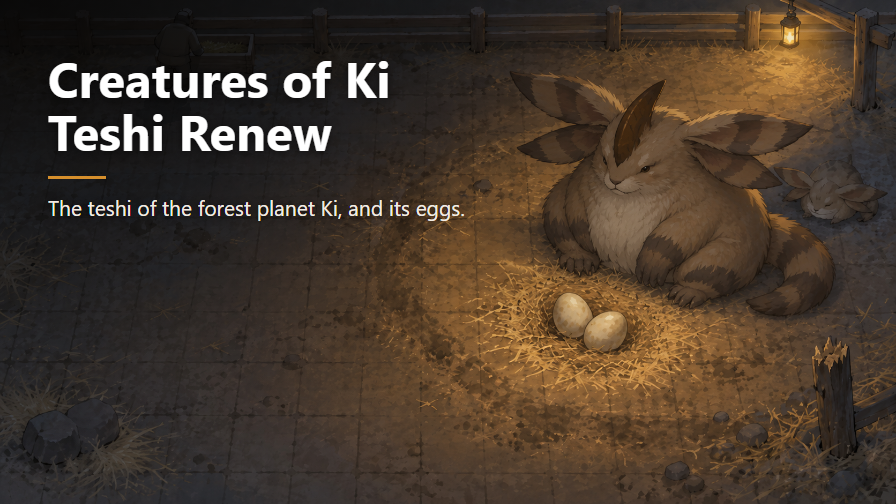
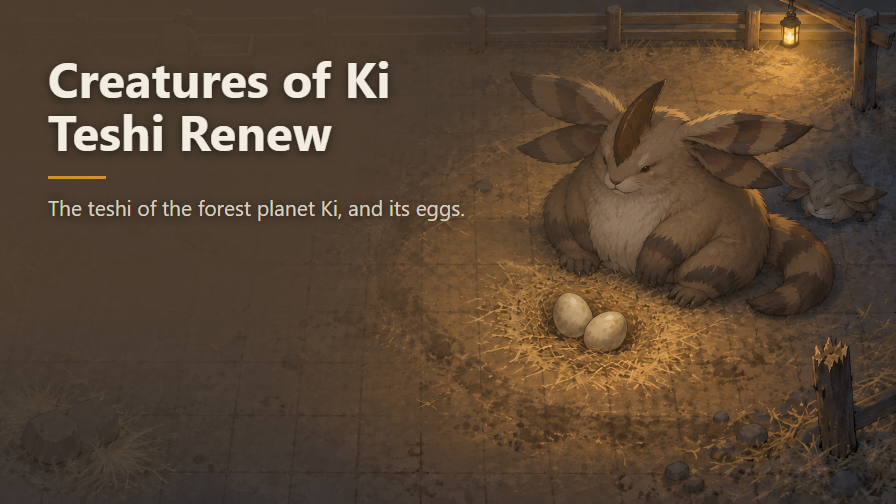
The veil takes a colour: the straw in shadow, not black
Under the 2026-09-12 rule the veil is a colour lifted out of the picture and the ink follows from
its luminance. This one is #503F2F, the straw lying in shadow under the animal's flank, sampled off
the full-resolution source and desaturated a fifth of the way to its own grey. Its luminance is
0.056, so the ink is the light pair and the drop shadows stay. The rule keeps its amber: the
exception is for a veil that is itself amber, and a shadowed brown is not.

The pale veil was built first, because that is what the rule's own example does, and it was
measured rather than argued about: #D4BB91 off the lit side of the eggs, dark ink, 4.87:1 at the
worst point. It passes and it washes the picture out. A pale veil has to hold its alpha across the
whole 430px summary, and an ellipse wide enough for that covers the frame, so the animal, the
lantern and the nest all come up milky. Four narrower ellipses were measured and every one fell
through the floor at the end of the summary: 3.5:1 at 700px, 2.8:1 at 620px, 1.0:1 at 560px. On a
night scene lit by a single lantern the veil has to be the dark one. What it must not be is the
same black as the other fifty-four, and at 20,20 this one reads #503D2C where the old one read
#0D0C0C.

Two mid-tones were dropped before either of those: the lamp pool on the straw and the dry straw at
the nest edge, #996B37 and #966A3A. Both sit within a hair of the 0.18 threshold, so they fail
[…]

diff --git a/Art/Preview-text.html b/Art/Preview-text.html
@@ -1,26 +1,58 @@
 <!doctype html>
 <meta charset="utf-8">
 <!--
-  The showcase banner: Preview-source.png with the title engraved over it. Render
-  at 896x504, the size Steam and the in-game mod list both want:
+  The showcase banner: Preview-source.png with the title engraved over it. Render at 896x504, the
+  size Steam and the in-game mod list both want:
 
     chrome --headless --disable-gpu --hide-scrollbars --force-device-scale-factor=1 \
            --window-size=896,504 \
            --screenshot=Mod/About/Preview.png Art/Preview-text.html
 
-  None of the numbers below are free. The first banner was built before the mod
-  took the Renew suffix, and its working notes were not kept, so these were
-  measured back off the image itself and refitted until a fresh render matched it:
-  title glyphs open at x=50 y=61, the two lines sit 53px apart, the rule is 58x3
-  at x=48 y=176, and the summary opens at y=200. The shade was fitted the same
-  way, by rendering candidates and comparing them to the old banner pixel by
-  pixel away from the text - an ellipse, not a circle, which is why the
-  bottom-left corner stays lighter than its distance from the corner suggests.
+  THE LAYOUT is measured, not chosen. The first banner was built before the mod took the Renew
+  suffix and its working notes were not kept, so these numbers were read back off the image and
+  refitted until a fresh render landed on it: the title opens at x=50 y=61, the two lines sit 53px
+  apart, the rule is 58x3 at x=48 y=176, the summary opens at y=200. Changing the words is safe;
+  leave the geometry alone.
 
-  So: changing the words is safe, and everything else should be left alone.
+  THE VEIL is no longer black. Under the 2026-09-12 rule it takes a colour out of the picture and
+  the ink follows from it:
 
-  The source art needs no crop. 1672x941 scaled to 896 wide is 504.4 high, so the
-  background sits at 0,0 and the spare half pixel falls off the bottom.
+    #503F2F is the straw lying in shadow under the animal's flank, sampled off the full-resolution
+            source at 1180,520 as the mean of a 50px patch, then desaturated a fifth of the way to
+            its own grey. Its WCAG relative luminance is 0.056, well under the 0.18 that decides
+            the ink.
+    ink     the light pair, then: #F2ECE1 for the title, #D8CFC0 for the summary.
+    shadow  kept. A drop shadow belongs to a dark veil, where it lifts the glyphs off the scene
+            still showing through it.
+    rule    stays amber #D68F2C. The exception is for a veil that is itself amber, and this one is
+            a shadowed brown.
+
+  WHY NOT A PALE VEIL, which is what the rule's first example does. It was built and measured:
+  #D4BB91, the lit side of the two eggs, dark ink, 4.87:1 at the worst point - it passes, and it
+  washes the picture out. A pale veil has to hold its alpha across the whole 430px summary, and an
+  ellipse wide enough to do that covers the frame, so the animal, the lantern and the nest all come
+  up milky. Four narrower ellipses were measured and every one of them fell through the floor at
+  the end of the summary line: 3.5:1 at 700px, 2.8:1 at 620px, 1.0:1 at 560px. On a night scene lit
+  by one lantern, the veil has to be the dark one; what it must not be is the same black as the
+  other fifty-four, and at 20,20 this one reads #503D2C against the #0D0C0C it replaces.
+
+  Two mid-tones were dropped before either: the lamp pool on the straw (#996B37) and the dry straw
+  at the nest edge (#966A3A). Both sit within a hair of the 0.18 threshold, so they fail against
+  BOTH inks, 3.9:1 either way. A veil has to commit to being light or dark.
+
+  THE REACH is the one thing here that is not the rule's stated number. The dark-veil form dies at
+  74% of the diagonal, which leaves the end of the summary at 4.39:1 - just under the floor, and
+  the exact trap the rule describes for pale veils. It applies to this scene's dark veil too,
+  because the floor behind the summary is dark slate rather than lamplight. So the veil holds .90
+  then .86 to half its reach before falling, over an ellipse of 760 by 620: 5.0:1 at the worst
+  point, 8.7:1 behind the title, and the lantern's pool survives.
+
+  Measured on the render and not on this stylesheet, by rendering a second time with the text
+  hidden and reading the pixels behind where each glyph sits. Worst point is the far end of the
+  summary line; if the summary ever gets longer, measure again.
+
+  The source art needs no crop. 1672x941 scaled to 896 wide is 504.4 high, so the background sits
+  at 0,0 and the spare half pixel falls off the bottom.
 -->
 <style>
   html,body { margin:0; padding:0; }
@@ -33,17 +65,20 @@
   }
   .shade {
     position:absolute; inset:0;
-    background:radial-gradient(ellipse at 0% 0%, rgba(6,5,4,.90) 0%, rgba(6,5,4,0) 66%);
+    background:radial-gradient(ellipse 760px 620px at top left,
+                               rgba(80,63,47,.90) 0%,
+                               rgba(80,63,47,.86) 50%,
+                               rgba(80,63,47,0) 100%);
   }
   .text { position:absolute; left:48px; top:52px; font-family:"Segoe UI",sans-serif; }
   h1 {
     margin:0; font-size:49px; font-weight:700; line-height:1.08;
-    color:#FFFFFF; letter-spacing:.2px; text-shadow:0 2px 10px rgba(0,0,0,.55);
+    color:#F2ECE1; letter-spacing:.2px; text-shadow:0 2px 10px rgba(0,0,0,.55);
   }
   .rule { width:58px; height:3px; background:#D68F2C; margin:18px 0 13px 0; }
   p {
     margin:0; width:430px; font-size:21px; line-height:1.5;
-    color:#F2ECE4; text-shadow:0 1px 8px rgba(0,0,0,.6);
+    color:#D8CFC0; text-shadow:0 1px 8px rgba(0,0,0,.6);
   }
 </style>
 <div class="frame">

diff --git a/STATUS.md b/STATUS.md
@@ -16,7 +16,6 @@ remaining:
     17 out-of-game tests: what remains is the three things no reflection reaches - the animal drawn on
     its four faces, an egg that hatches, and the dessicated sprite borrowed from the dromedary, which
     the game does not ship in the clear. TESTS.md scenarios 2, 5 and 6.
-  - feature: the showcase is engraved in black, from before the 2026-09-12 rule on the coloured veil
 session:      local_6b828864-4bf7-4de6-91d5-29f775dc13a6
 updated:      2026-09-12, kept by the thread that holds this mod
 ---
